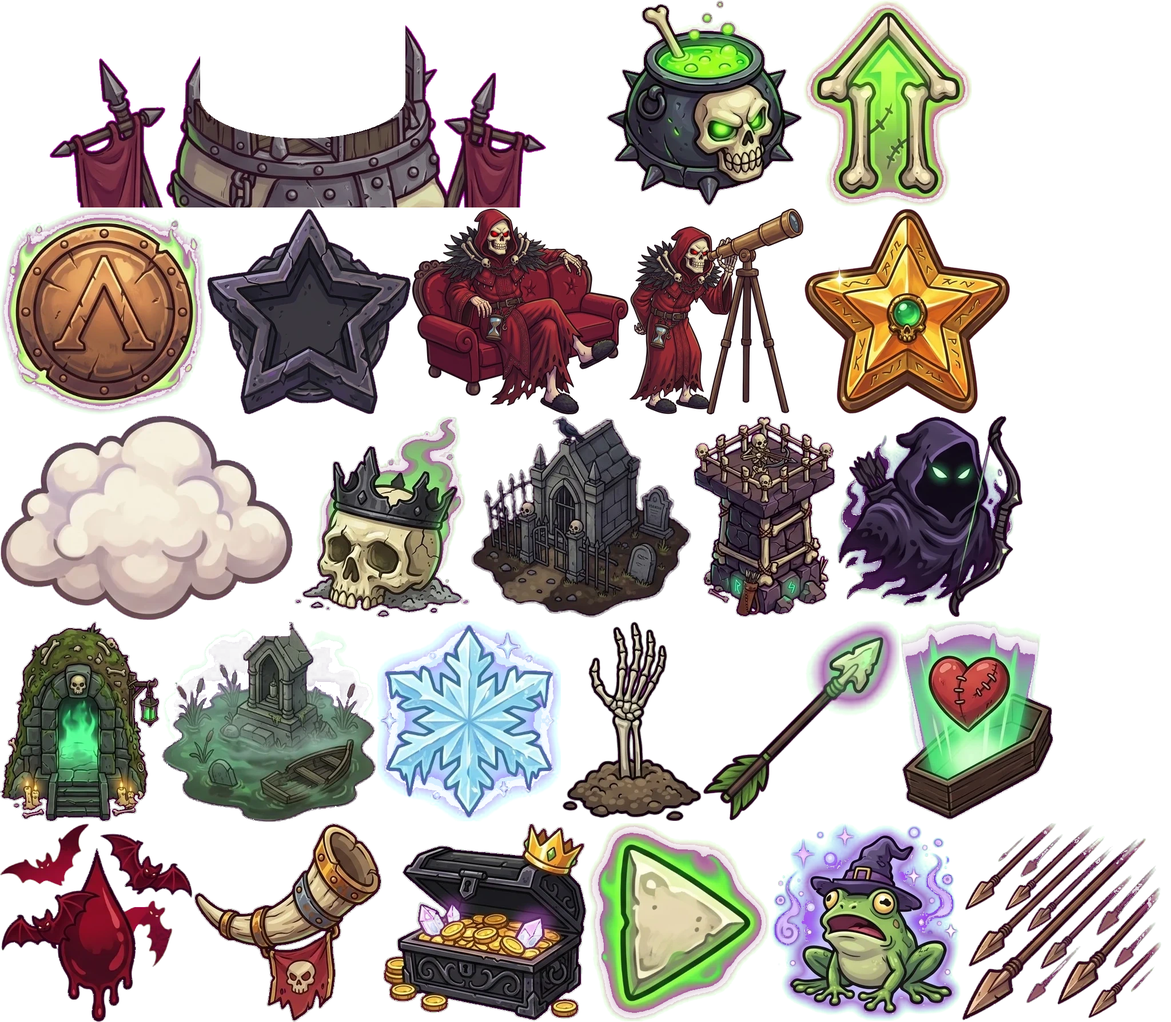
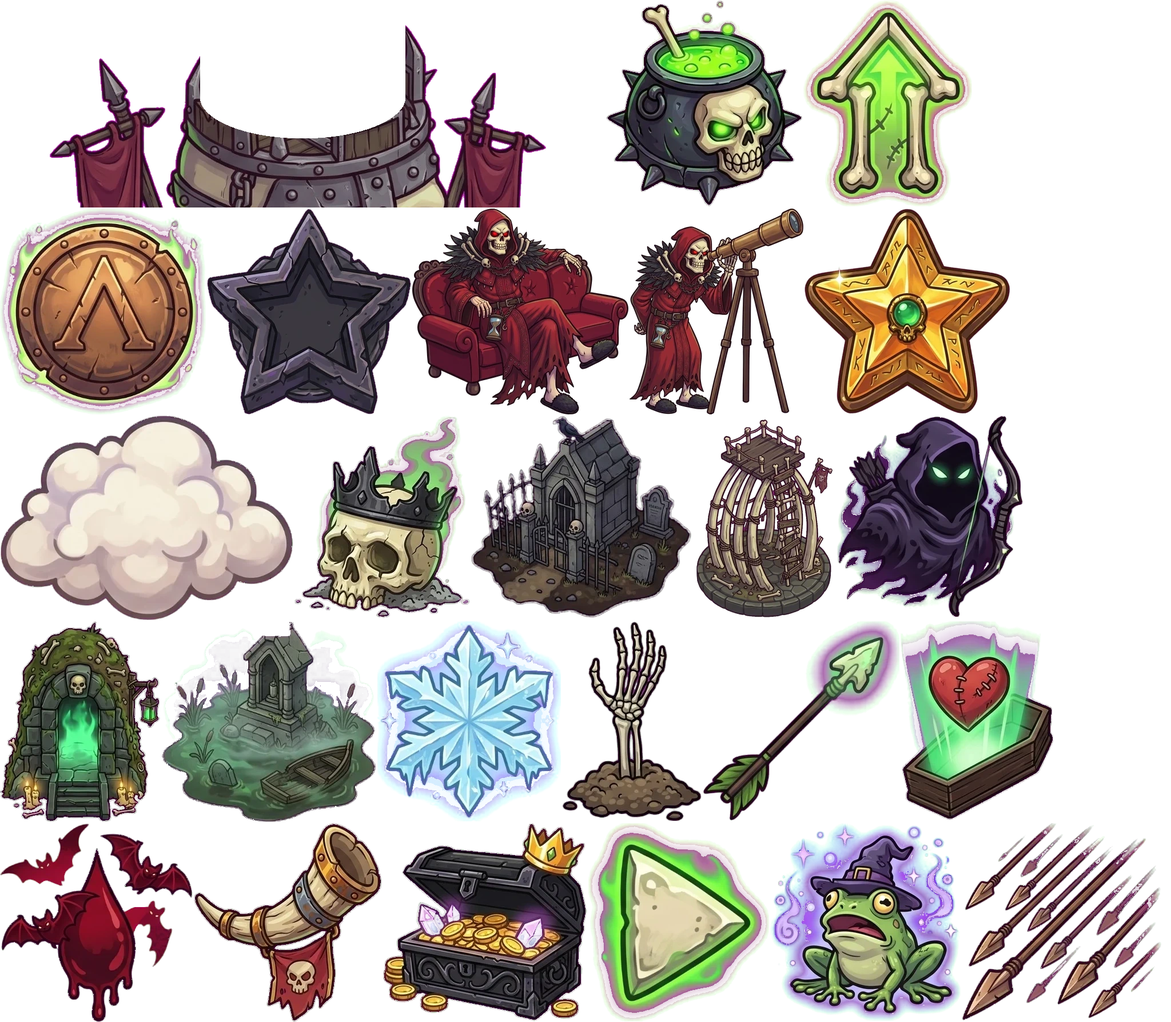
Kemik Kulesi kurma simgesi yeni tasarımdan (yayın 868)

Changed region(s): [[0.5938, 0.3999, 0.7188, 0.6152]]

diff --git a/sinir-kalesi/index.html b/sinir-kalesi/index.html
@@ -17,7 +17,7 @@
 <canvas id="game" aria-label="Sınır Kalesi oyun alanı"></canvas>
 <script>
   // Sürüm damgası: her yayında artırılır; tarayıcı eski önbellek kopyasını kullanmaz (js ve görseller).
-  window.SURUM = '867';
+  window.SURUM = '868';
   // dil: kayıtlı seçim (yoksa Türkçe); tr/en dışındakiler için çeviri sözlüğü dil.js'ten önce yüklenir
   window.__dilYukle = (function () {
     var l = null; try { l = localStorage.getItem('sinirKalesi.lang'); } catch (e) {}

diff --git a/sinir-kalesi/yayin.html b/sinir-kalesi/yayin.html
@@ -11,7 +11,7 @@
 <canvas id="game" aria-label="Sınır Kalesi oyun alanı"></canvas>
 <script>
   // Sürüm damgası: her yayında artırılır; tarayıcı eski önbellek kopyasını kullanmaz (js ve görseller).
-  window.SURUM = '867';
+  window.SURUM = '868';
   // dil: kayıtlı seçim (yoksa Türkçe); tr/en dışındakiler için çeviri sözlüğü dil.js'ten önce yüklenir
   window.__dilYukle = (function () {
     var l = null; try { l = localStorage.getItem('sinirKalesi.lang'); } catch (e) {}

diff --git a/varliklar/kule_anim_isle.py b/varliklar/kule_anim_isle.py
@@ -19,9 +19,9 @@ FH_MAX = 300  # şerit kare yüksekliği (px); 49 kare x ~300 px genişlik doku 
 
 
 def process(job):
-    name = job['name']; base = name[:-4]  # tower_..._atk -> görsel adı
+    name = job['name']; base = job.get('base') or name[:-4]  # tower_..._atk -> görsel adı (20 Eki: bekleme döngüsü adayları 'base' verir)
     im = Image.open(os.path.join(IMG, base + '.webp')); iw, ih = im.size
-    k = min(400 / ih, 560 / iw); sw, sh = iw * k, ih * k; sx0 = (832 - int(sw)) // 2; sy0 = 480 - int(sh) - 40
+    k = min(400 / ih, 560 / iw) * job.get('refK', 1); sw, sh = iw * k, ih * k; sx0 = (832 - int(sw)) // 2; sy0 = 480 - int(sh) - 40
     rgb = video_isle.frames_of(os.path.join(OUT, name + '.mp4'), 16)
     L = len(rgb) - (1 if job.get('loop') else 0)
     fr = [remove_magenta(a) for a in rgb[:L]]
